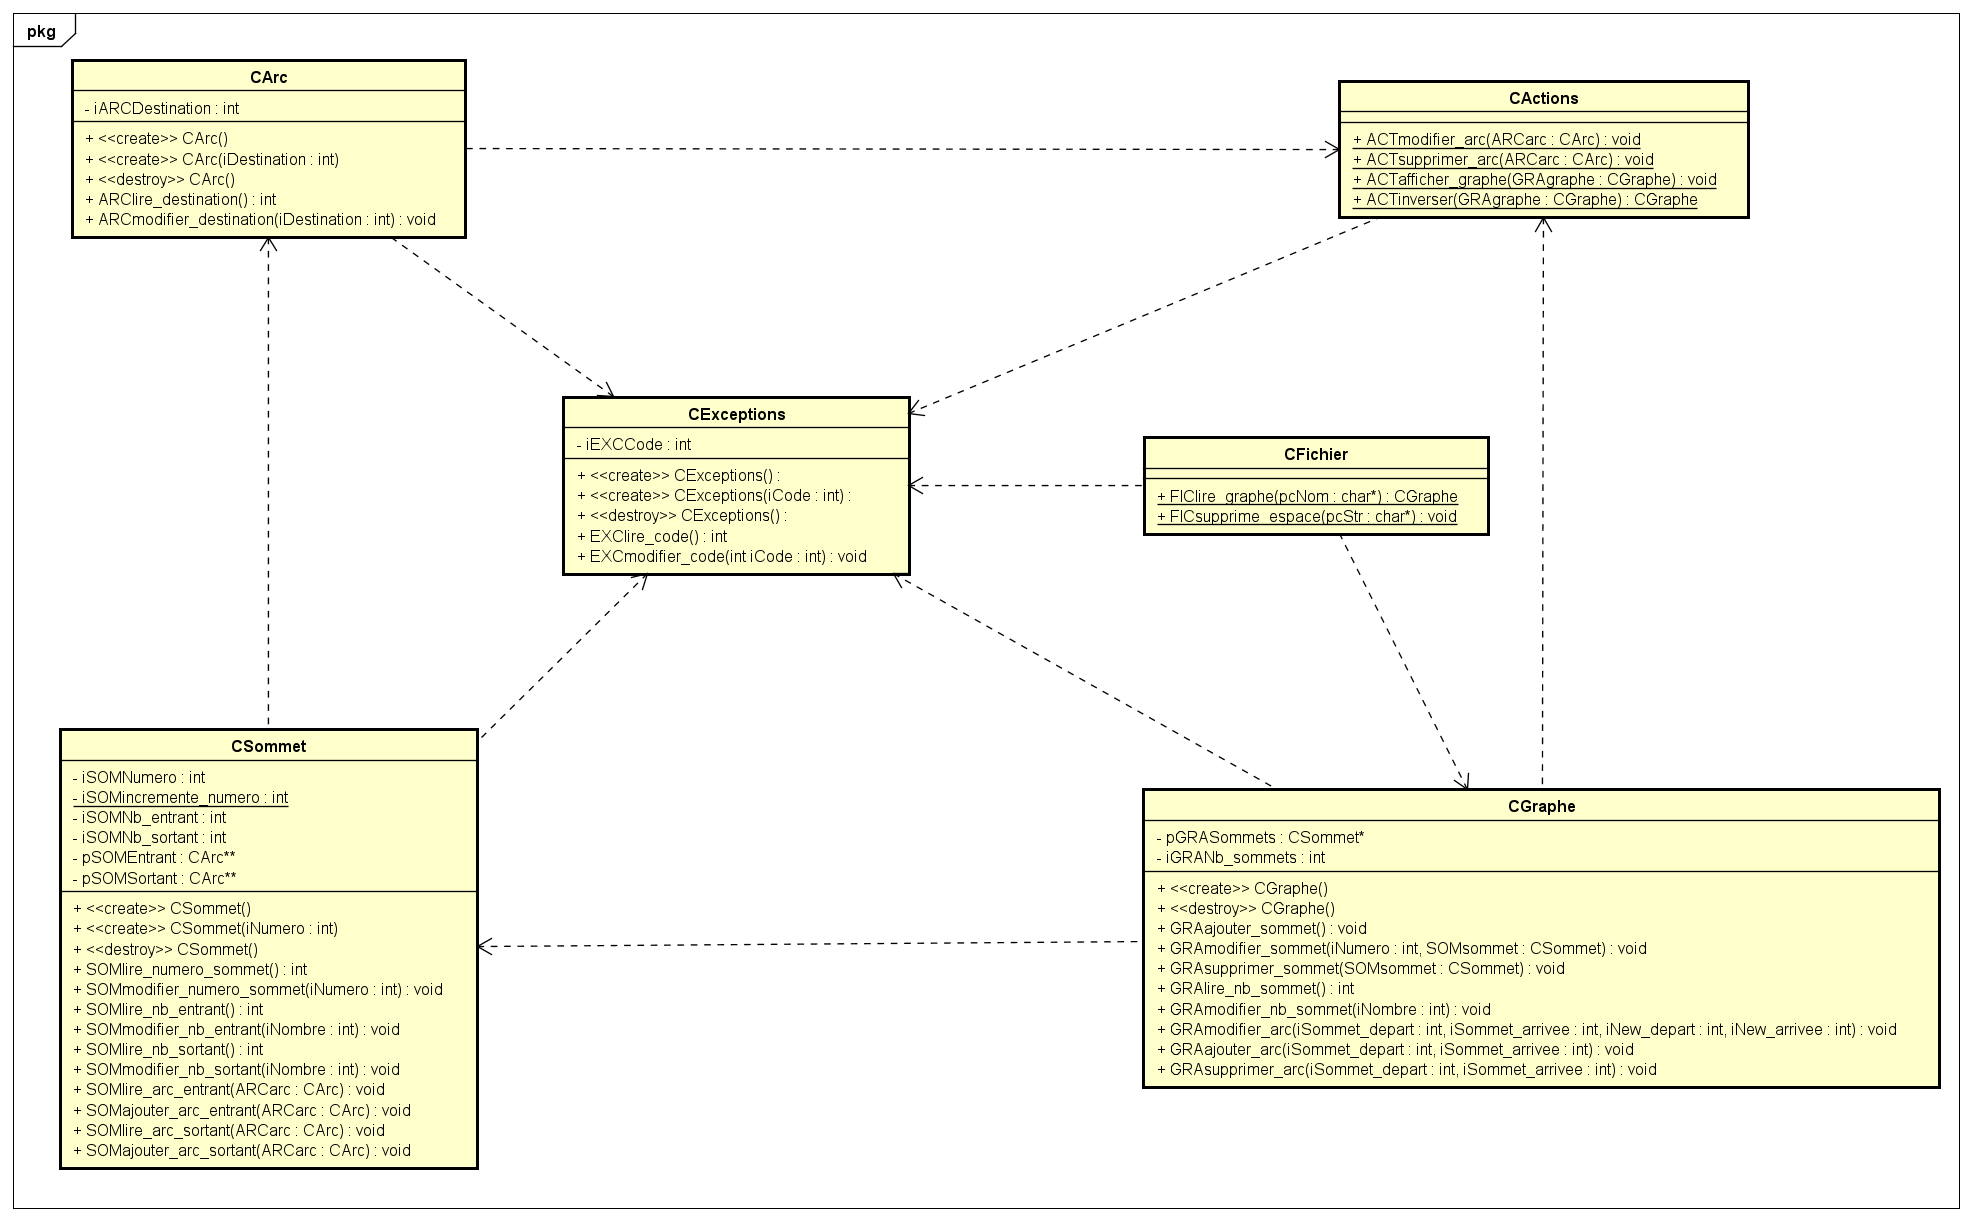
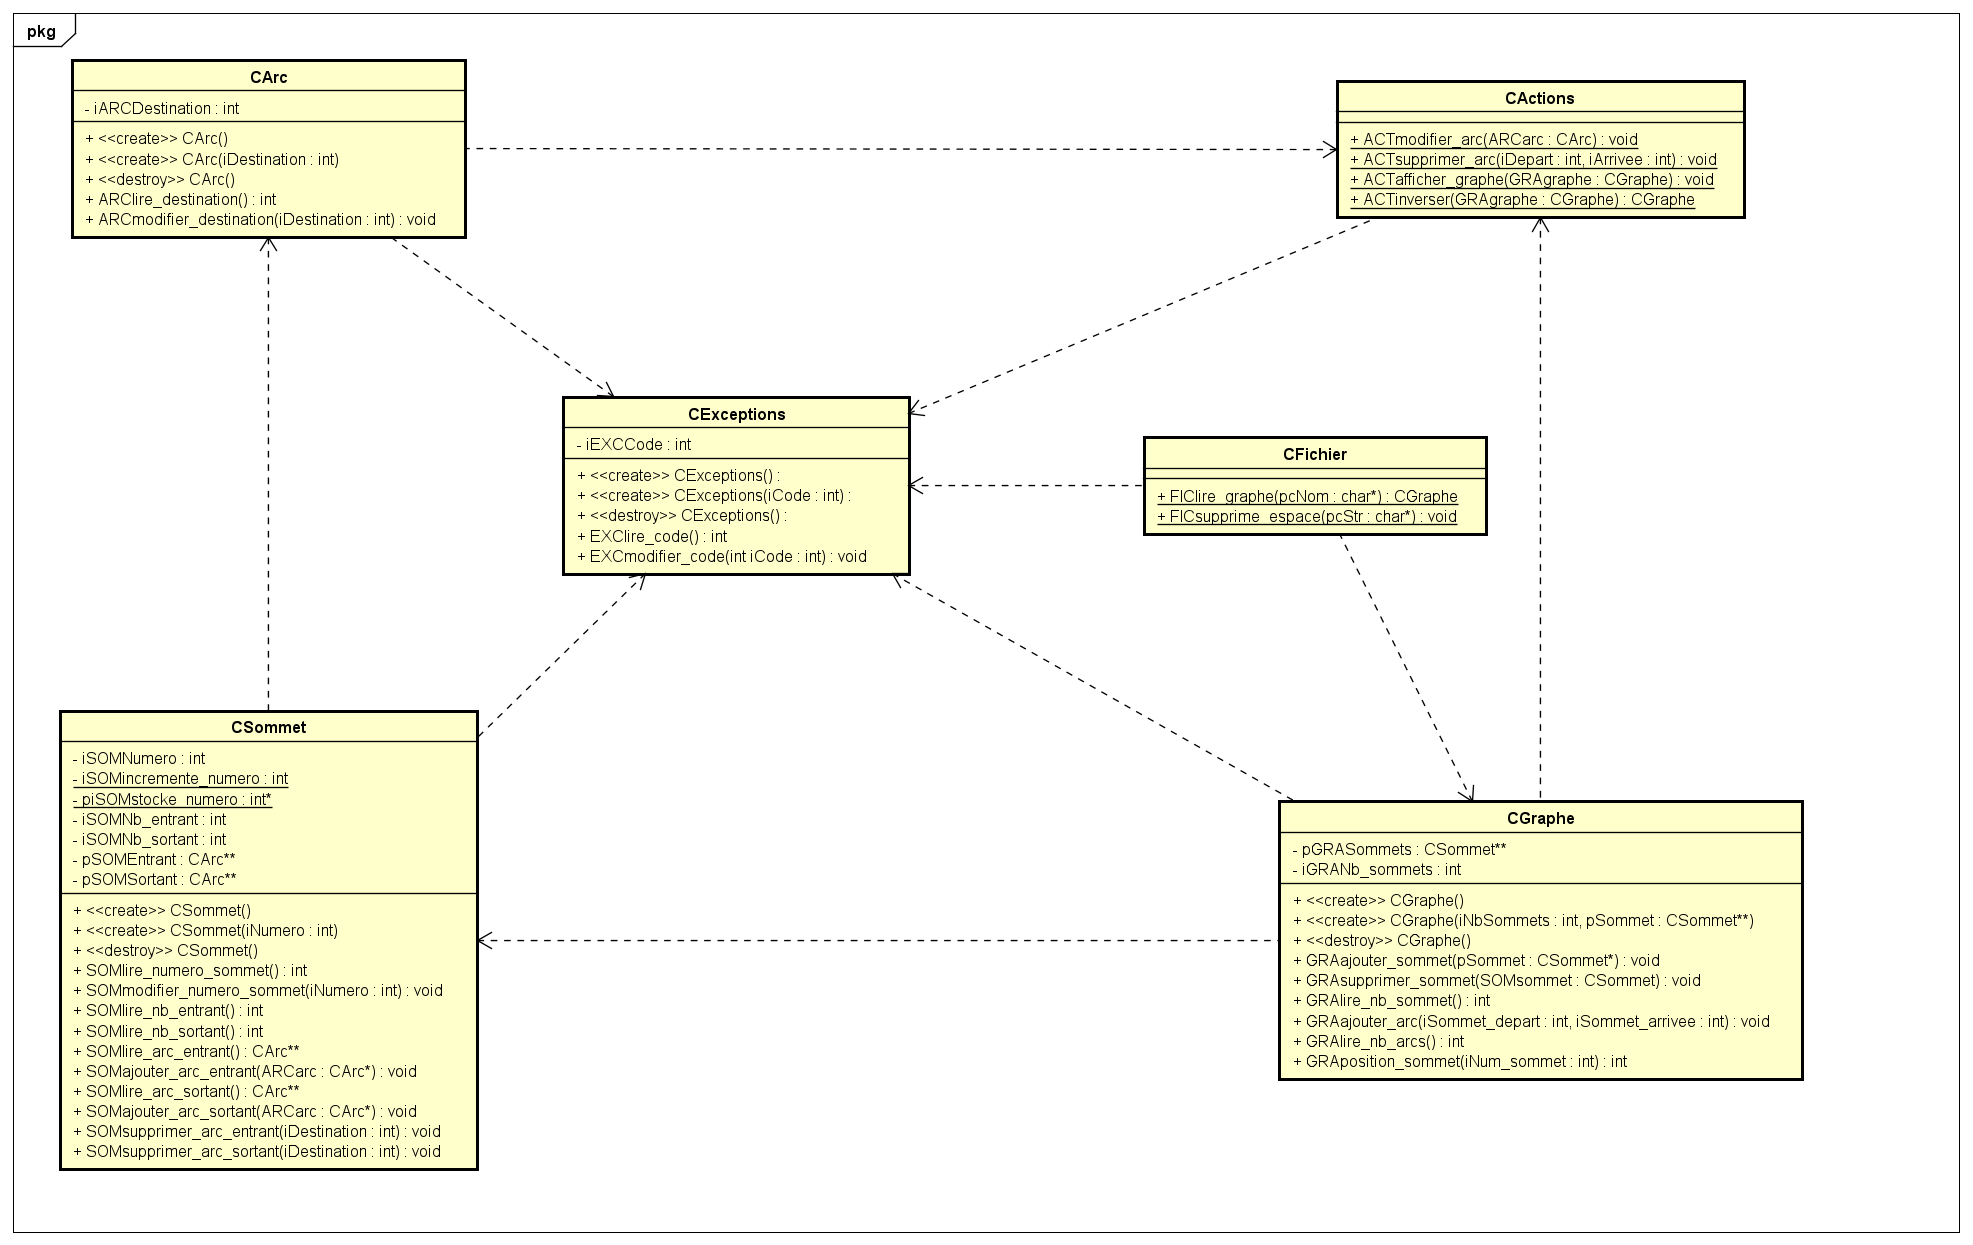
modif diagramme de classe

diff --git a/Graphe/CActions.h b/Graphe/CActions.h
@@ -11,6 +11,7 @@ class CActions
 {
 public:
 	static void ACTmodifier_arc(CArc ARCarc,int iNouvelle_Dest);
+	void ACTsupprimer_arc(int iDepart, int iArrivee);
 	static void ACTafficher_graphe(CGraphe GRAgraphe);
 	static CGraphe ACTinverser(CGraphe GRAgraphe);
 };
